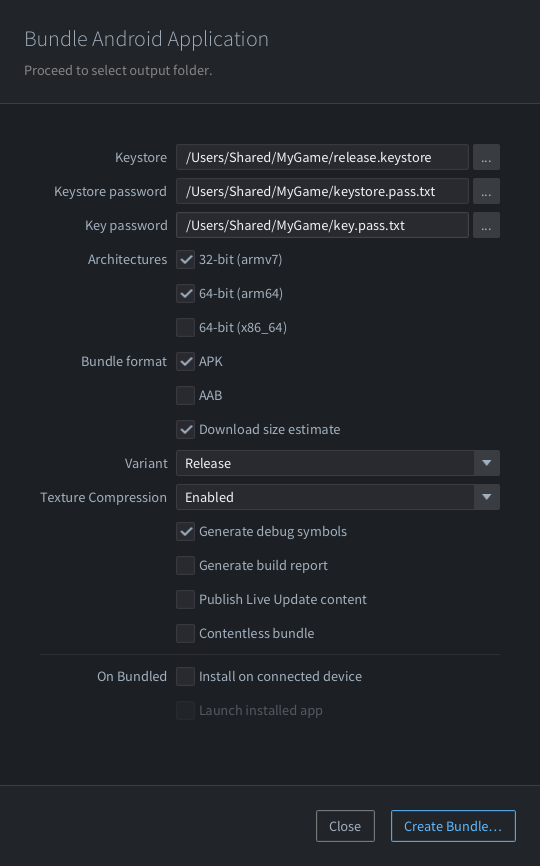
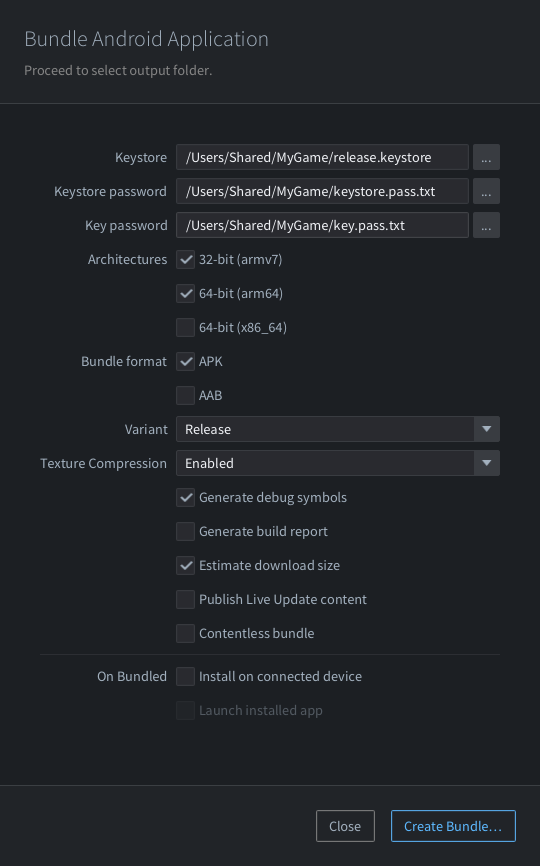
Rename download size check box and update screenshots

diff --git a/docs/en/manuals/android.md b/docs/en/manuals/android.md
@@ -58,9 +58,9 @@ Press <kbd>Create Bundle</kbd> when you have configured the application bundle s
 
 ### Estimating the Google Play download size {#estimating-the-google-play-download-size}
 
-Google Play doesn't deliver the *`.aab`* file to players. It generates APKs optimized for each device configuration, so the download a player gets is smaller than the *`.aab`* or the universal *`.apk`*. Check the *Download size estimate* check-box in the Bundle dialog to get the estimated download size when the bundle is created. The estimate works for both the APK and AAB bundle formats.
+Google Play doesn't deliver the *`.aab`* file to players. It generates APKs optimized for each device configuration, so the download a player gets is smaller than the *`.aab`* or the universal *`.apk`*. Check the *Estimate download size* check-box in the Bundle dialog to get the estimated download size when the bundle is created. The estimate works for both the APK and AAB bundle formats.
 
-![Download size estimate](images/android/sign_bundle.png)
+![Estimate download size](images/android/sign_bundle.png)
 
 The estimate is printed to the console:
 
